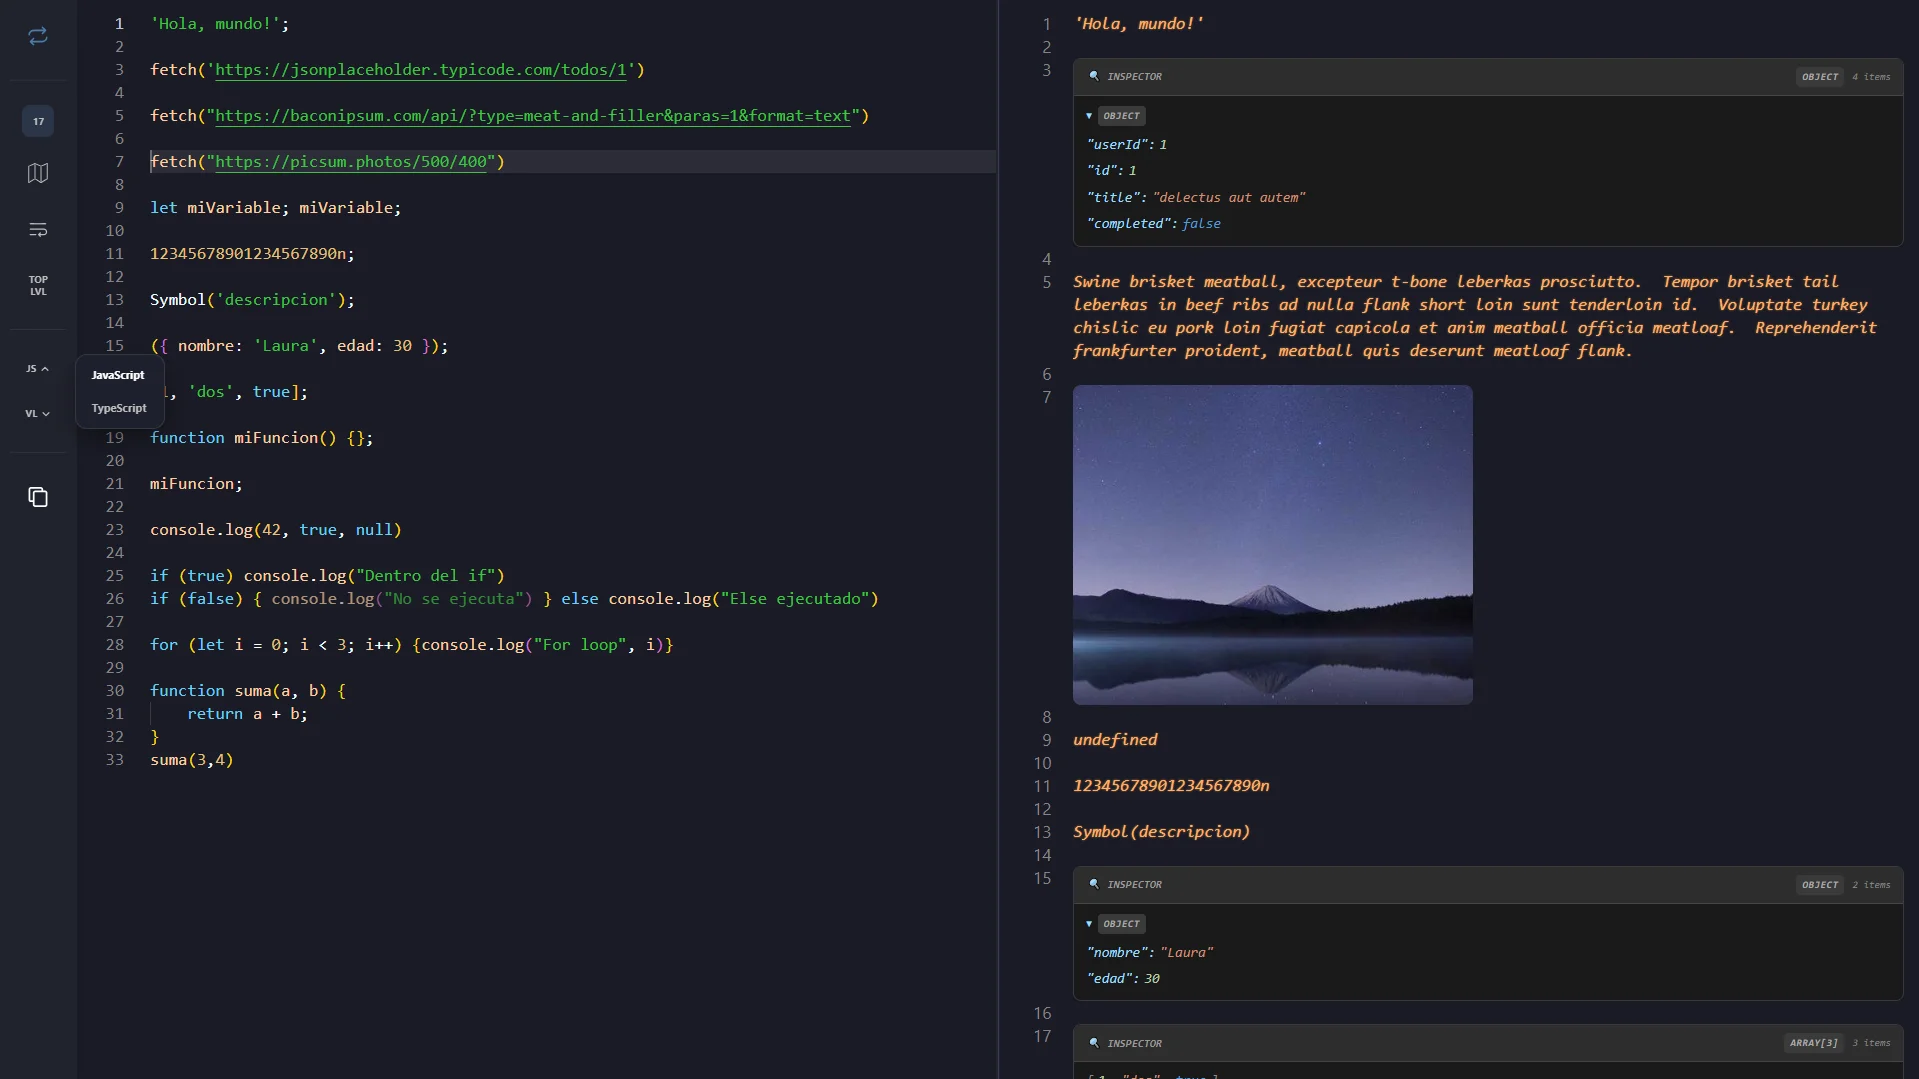
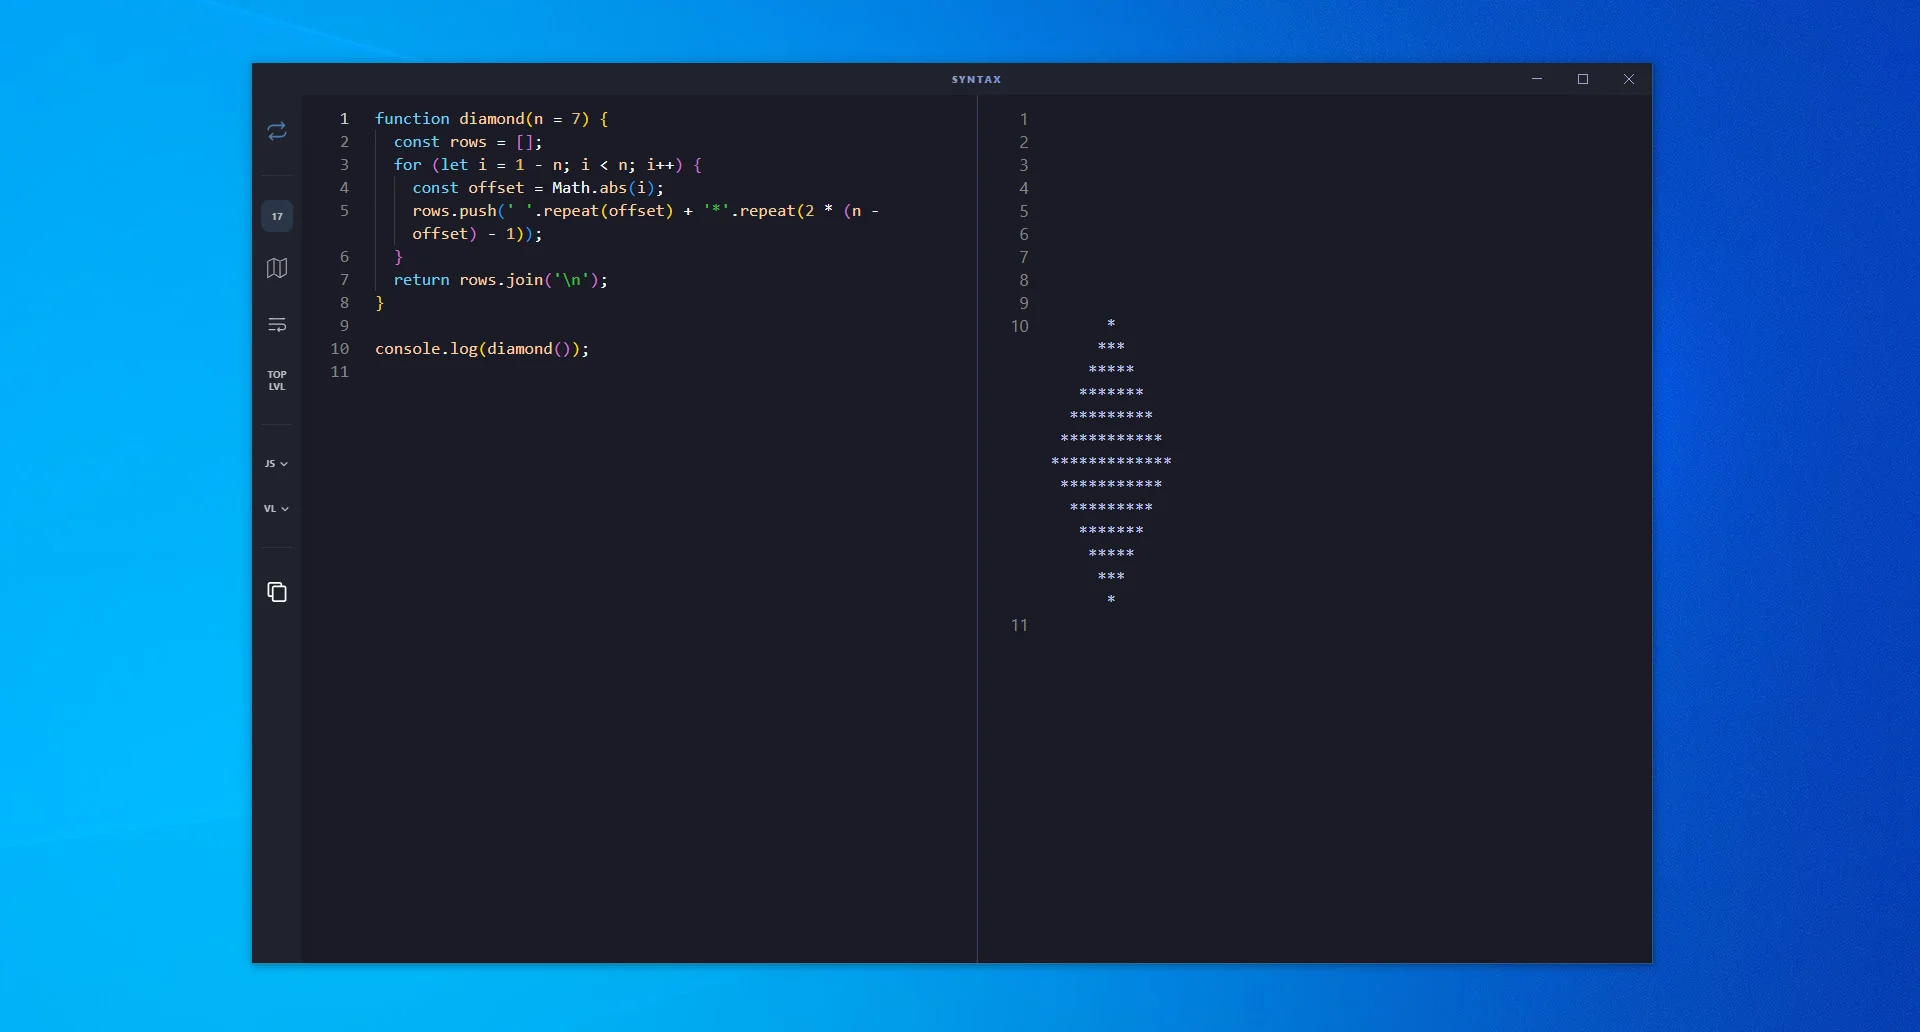
Updates

diff --git a/index.html b/index.html
@@ -60,8 +60,8 @@
       content="https://roynadiel.github.io/og-image.png"
     />
     <title>Roy Nadiel | Portfolio</title>
-    <script type="module" crossorigin src="./assets/index-BLTuWoDj.js"></script>
-    <link rel="stylesheet" crossorigin href="./assets/index-BgQERwos.css">
+    <script type="module" crossorigin src="./assets/index-USrgR3qs.js"></script>
+    <link rel="stylesheet" crossorigin href="./assets/index-DpjopH5X.css">
   </head>
   <body>
     <div id="root"></div>